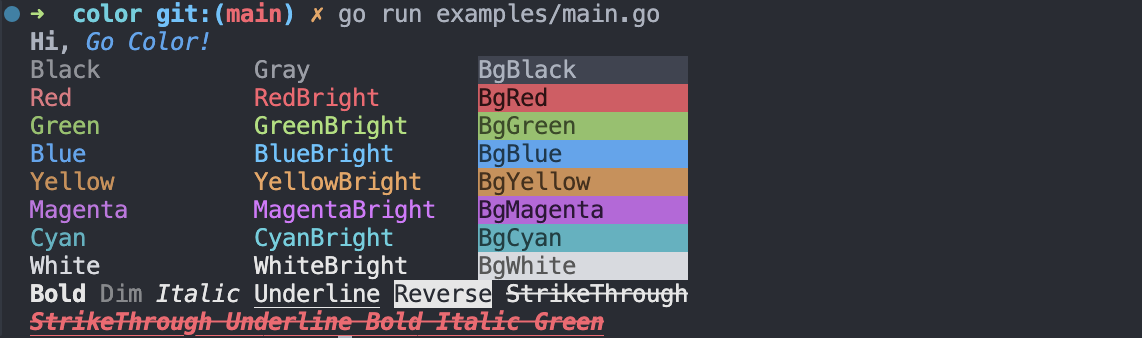
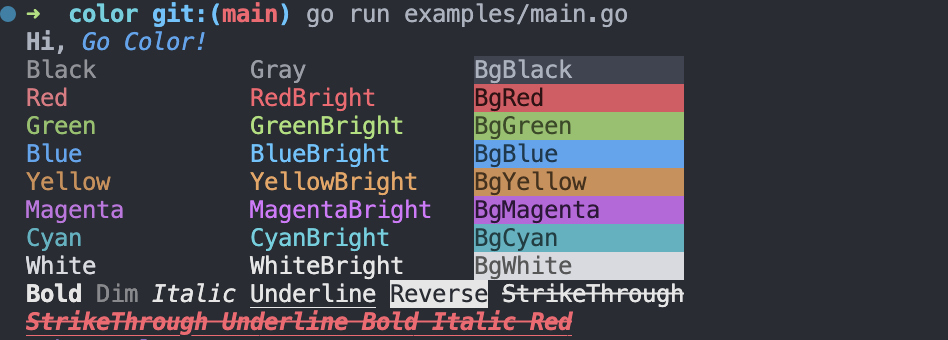
feat: update

Changed region(s): [[0.0, 0.1479, 0.7342, 1.0], [0.0, 0.0, 0.673, 0.2367], [0.0, 0.2663, 0.1224, 0.5621]]

diff --git a/examples/main.go b/examples/main.go
@@ -30,7 +30,7 @@ func main() {
 		c.Reverse().String("Reverse"),
 		c.StrikeThrough().String("StrikeThrough"),
 	)
-	fmt.Println(c.StrikeThrough().Underline().Bold().Italic().Red().String("StrikeThrough Underline Bold Italic Green"))
+	fmt.Println(c.StrikeThrough().Underline().Bold().Italic().Red().String("StrikeThrough Underline Bold Italic Red"))
 	fmt.Println(c.Other("38;2;117;45;245", "0").String("Other color"))
 	fmt.Println(c.Other("48;2;117;45;245", "0").String("Other color"))
 }

diff --git a/color.go b/color.go
@@ -207,6 +207,7 @@ func (c ColorFn) StrikeThrough() ColorFn {
 	return c.color("9", "29")
 }
 
+// See: https://en.wikipedia.org/wiki/ANSI_escape_code#CSI_codes
 func (c ColorFn) Other(start string, end string) ColorFn {
 	return c.color(start, end)
 }
